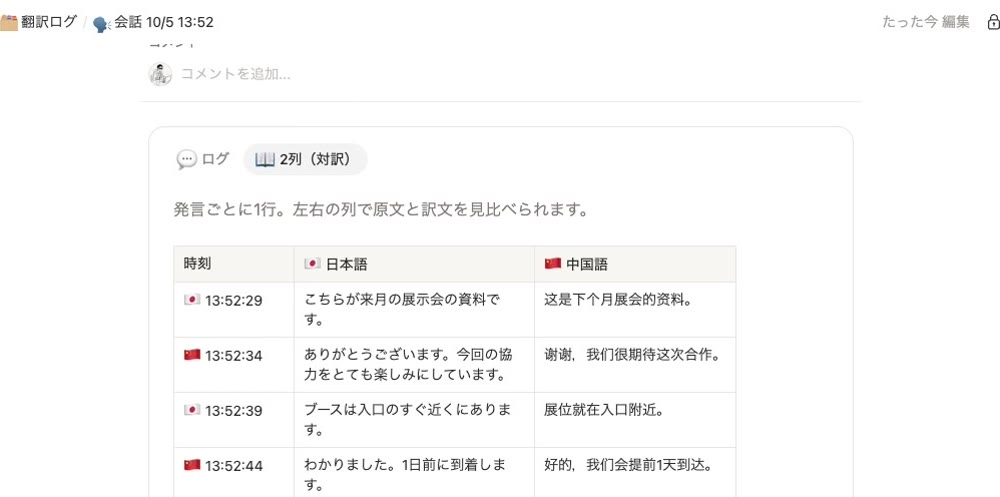
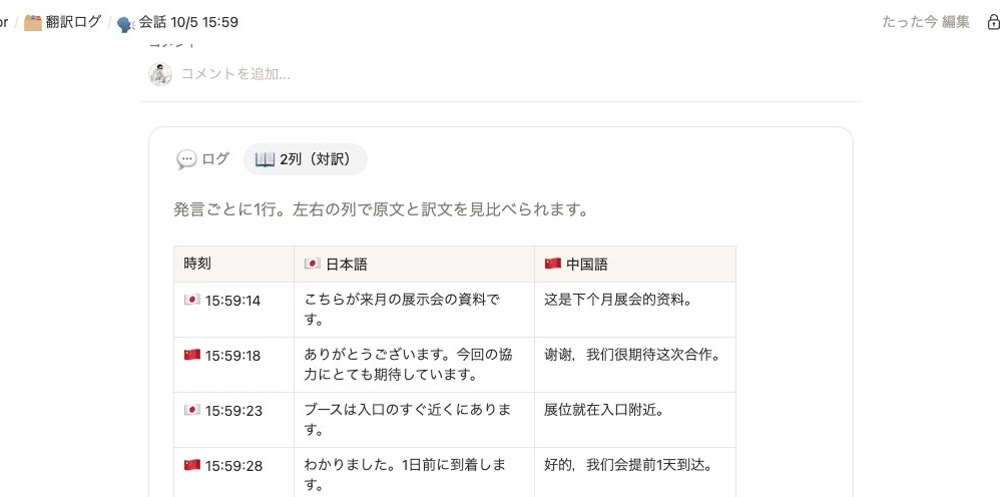
紹介動画へのリンクと、新しい表示のスクリーンショット
- README（日本語・英語）に紹介動画（v1.0.0 のリリースに添付）へのリンクを追加
- スクリーンショットを撮り直し（ログは話した言葉を大きく、訳を灰色で表示）

diff --git a/README.md b/README.md
@@ -5,7 +5,9 @@
 対面の会話を iPhone で聞き取ってリアルタイムに双方向翻訳し、原文と訳文を Notion に話すそばから記録するツールです。
 会議室のプロジェクターに Notion を映しておけば、参加者全員が同じ内容をリアルタイムで読めます。
 
-![左：iPhoneの翻訳画面（2列表示）、右：プロジェクターに映したNotionの2列（対訳）](docs/images/overview.jpg)
+![左：iPhoneの翻訳画面（2列表示）、右：プロジェクターに映したNotionの会話ページ](docs/images/overview.jpg)
+
+▶ **[紹介動画を見る（2分35秒・MP4）](https://github.com/TK-WFL/n-translator/releases/download/v1.0.0/N-Translator_demo.mp4)** — iPhone で話した内容が、プロジェクターの Notion に記録されていく様子
 
 - **双方向のリアルタイム翻訳**：話す言語は自動で判定。日本語で話せば相手の言語に、相手の言語で話せば日本語に訳します
 - **60言語に対応**：日本語⇄英語が標準。中国語・韓国語・スペイン語・ベトナム語など、60言語から2つを選べます

diff --git a/README.en.md b/README.en.md
@@ -5,7 +5,9 @@
 N-Translator listens to a face-to-face conversation on your iPhone, translates it both ways in real time, and writes the original and the translation into Notion as you speak.
 Put the Notion page on the meeting-room projector and everyone can follow the conversation live.
 
-![Left: the translation screen on iPhone (two-column view). Right: the Notion side-by-side table on the projector](docs/images/overview.jpg)
+![Left: the translation screen on iPhone (two-column view). Right: the Notion conversation page on the projector](docs/images/overview.jpg)
+
+▶ **[Watch the demo video (2:35, MP4, Japanese narration)](https://github.com/TK-WFL/n-translator/releases/download/v1.0.0/N-Translator_demo.mp4)** — what you say on the iPhone appears in Notion on the projector
 
 - **Two-way live translation** — the spoken language is detected automatically. Speak Japanese and it is translated into your partner's language, and vice versa
 - **60 languages** — Japanese ⇄ English by default. Choose any two of 60 languages, such as Chinese, Korean, Spanish or Vietnamese
